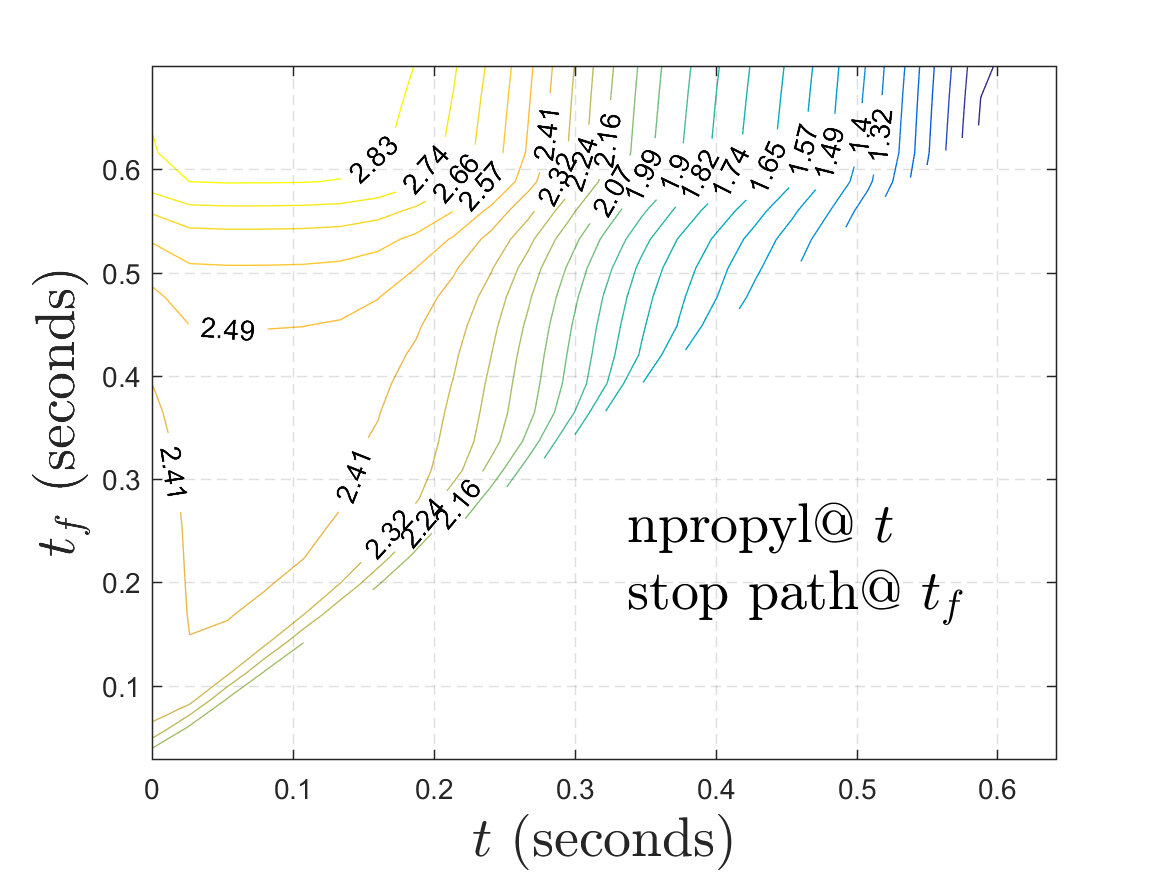
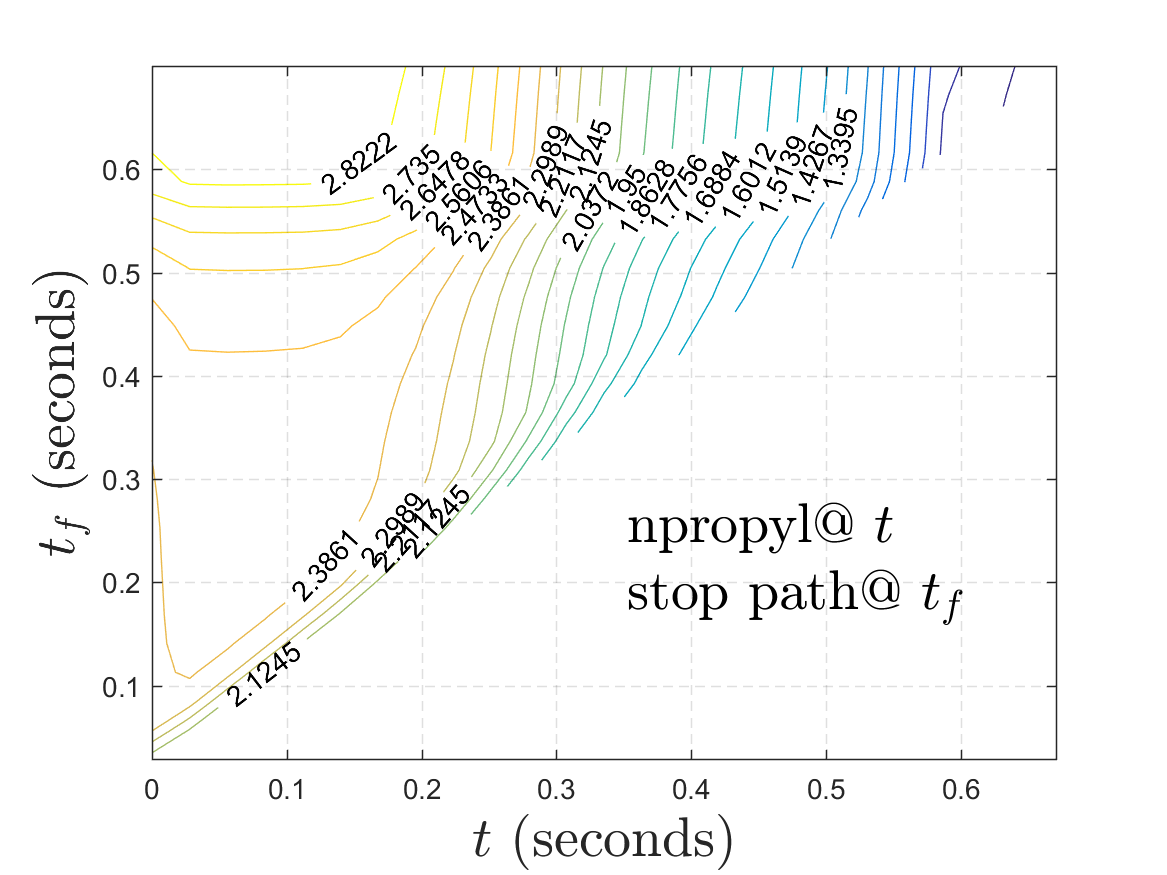
minor

diff --git a/theory/misc/Merchant_f/2d_f/npropyl/two_dim_Merchant_f_v2.m b/theory/misc/Merchant_f/2d_f/npropyl/two_dim_Merchant_f_v2.m
@@ -42,17 +42,7 @@ fig = figure();
 % mesh(X,Y,Z); %interpolated
 
 % reduce number of s.f. in coutour plot
-[C,~]=contour(X,Y,Z, 25, 'ShowText', 'on');
-
-% reduce number of s.f. in coutour plot
-tl = clabel(C, 'FontSize', 10);
-itvec = 2:2:length(tl);
-NewCoutours = zeros(size(itvec));
-for i= itvec
-    textstr = get(tl(i), 'String');
-    NewCoutours(i) = round(str2double(textstr), 2);
-end
-contour(X,Y,Z, NewCoutours, 'ShowText','on');
+contour(X,Y,Z, 25, 'ShowText', 'on');
 
 axis tight;
 hold on;
